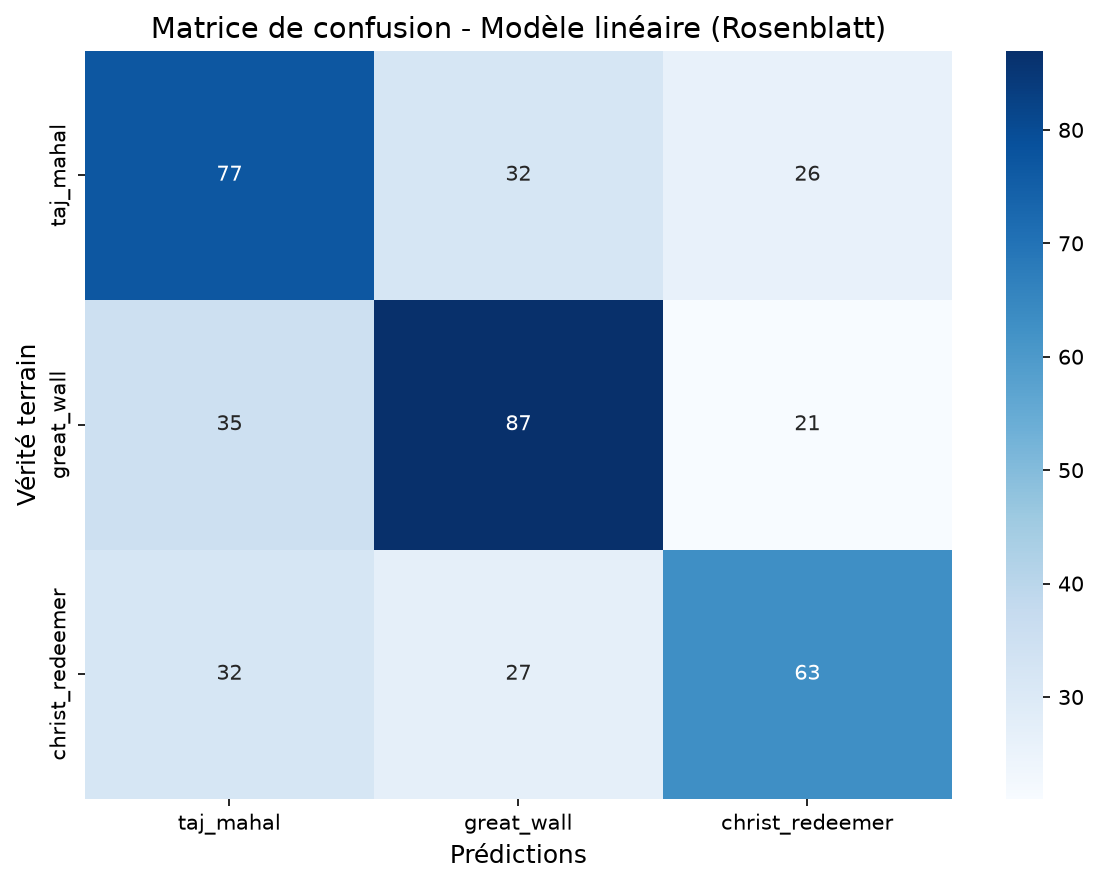
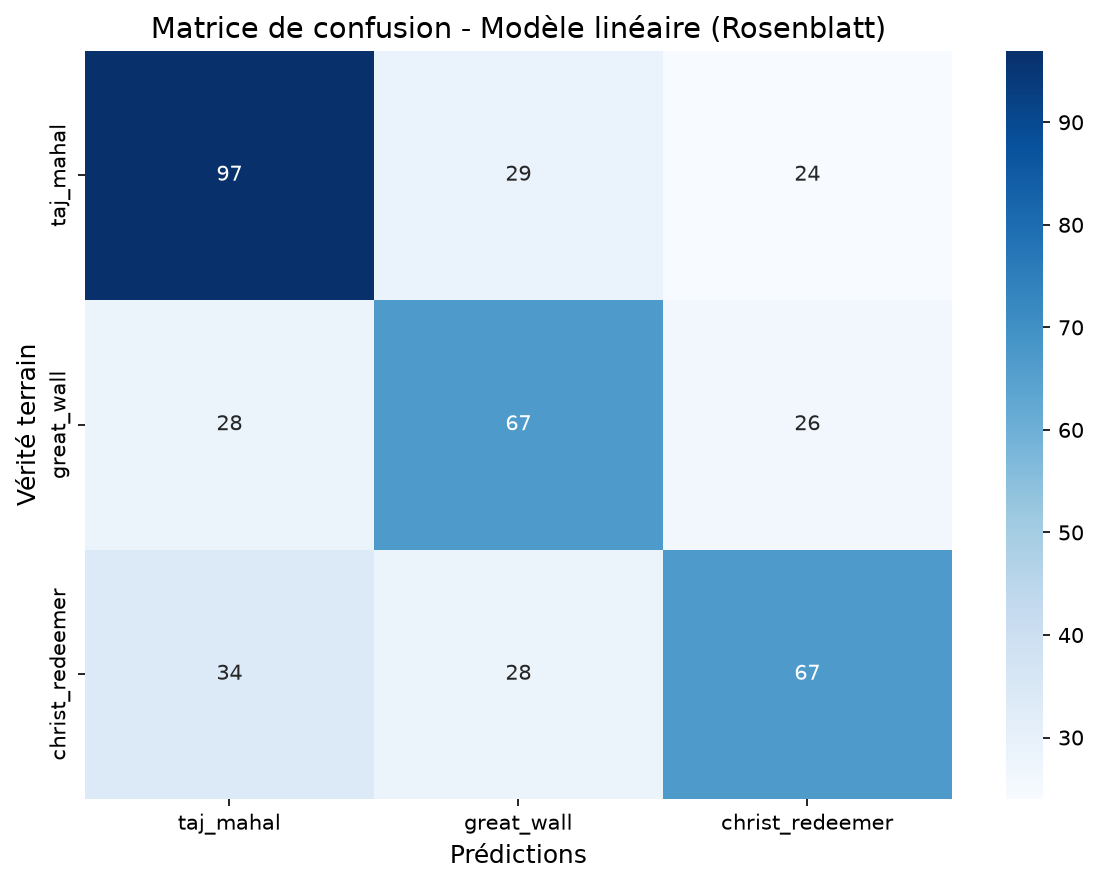
MLP reste des modif mais tout sera là ce soir

diff --git a/scripts/train_mlp.py b/scripts/train_mlp.py
@@ -73,12 +73,6 @@ def generate_all_graphs(y_test, y_pred, class_names):
 
 
 def one_hot(labels, n_classes):
-    """
-    Encode des labels entiers en vecteurs one-hot -1.0/+1.0 (PAS 0/1).
-    Necessaire car le MLP a plusieurs neurones de sortie en -1/+1
-    (contrairement au modele lineaire qui a un perceptron separe par
-    classe, traite individuellement en one-vs-rest).
-    """
     out = []
     for label in labels:
         row = [-1.0] * n_classes
@@ -87,7 +81,7 @@ def one_hot(labels, n_classes):
     return out
 
 
-def train_mlp_model(hidden_layers=(32,), n_iterations=300000, learning_rate=0.01):
+def train_mlp_model(hidden_layers=(32,), n_iterations=30000, learning_rate=0.01):
     """
     hidden_layers : tuple des tailles des couches cachees, ex (32,) pour
     une seule couche cachee de 32 neurones, ou (64, 16) pour deux couches.
@@ -112,8 +106,6 @@ def train_mlp_model(hidden_layers=(32,), n_iterations=300000, learning_rate=0.01
 
     print(f"   Stats features: mean={X.mean():.3f}, std={X.std():.3f}")
 
-    # Split train/test (meme seed que train_models.py pour pouvoir
-    # comparer les deux modeles sur exactement le meme split)
     np.random.seed(42)
     n_samples = len(X)
     indices = np.random.permutation(n_samples)
@@ -126,7 +118,6 @@ def train_mlp_model(hidden_layers=(32,), n_iterations=300000, learning_rate=0.01
     print(f"\nTrain: {len(X_train)} images")
     print(f"Test: {len(X_test)} images")
 
-    # Architecture : [n_features, couches cachees..., n_classes]
     npl = [X.shape[1]] + list(hidden_layers) + [n_classes]
     print(f"\nArchitecture du MLP: {npl}")
 
@@ -137,7 +128,6 @@ def train_mlp_model(hidden_layers=(32,), n_iterations=300000, learning_rate=0.01
     model.train(X_train.tolist(), Y_train_onehot,
                 learning_rate=learning_rate, n_iterations=n_iterations)
 
-    # Évaluation
     y_pred = np.array([model.predict(x) for x in X_test.tolist()])
     accuracy = np.mean(y_pred == y_test)
 
@@ -146,18 +136,13 @@ def train_mlp_model(hidden_layers=(32,), n_iterations=300000, learning_rate=0.01
     print("\nRapport de classification:")
     print(classification_report(y_test, y_pred, target_names=processor.class_names, zero_division=0))
 
-    # Sauvegarde
     os.makedirs('data/models', exist_ok=True)
     model.save('data/models/mlp_model.bin')
 
-    # Générer les graphiques
     generate_all_graphs(y_test, y_pred, processor.class_names)
 
     return model, accuracy
 
 
 if __name__ == "__main__":
-    # Architecture par defaut : 1 couche cachee de 32 neurones.
-    # N'hesite pas a essayer d'autres tailles (ex hidden_layers=(64,) ou
-    # (64, 16)) pour voir l'impact sur la precision dans le rapport.
     train_mlp_model(hidden_layers=(32,), n_iterations=300000, learning_rate=0.01)

diff --git a/lib/src/linear_model.c b/lib/src/linear_model.c
@@ -70,12 +70,6 @@ void linear_train(LinearModel* model, float** X, int* y, int n_samples, float le
     model->is_trained = 1;
 }
 
-/*
- * Prediction multi-classes : on calcule le score W.X de chaque perceptron
- * et on garde la classe dont le perceptron est le plus confiant (score le
- * plus eleve), comme dans le notebook "Multi Linear 3 classes" fourni par
- * Vidal.
- */
 int linear_predict(LinearModel* model, float* x) {
     int best_class = 0;
     float best_score = dot_with_bias(model->weights[0], x, model->n_features);

diff --git a/scripts/download_dataset.py b/scripts/download_dataset.py
@@ -4,11 +4,7 @@ from tqdm import tqdm
 import time
 
 def download_images_from_google(query, num_images, save_dir):
-    """
-    Télécharge des images depuis Google Images
-    Note: Cette fonction est simplifiée; pour un usage réel,
-    utilisez une API comme SerpAPI ou téléchargez manuellement
-    """
+   
     print(f"Téléchargement de {num_images} images pour '{query}'")
     os.makedirs(save_dir, exist_ok=True)
     

diff --git a/python_api/ml_bridge.py b/python_api/ml_bridge.py
@@ -3,7 +3,6 @@ import numpy as np
 import os
 import sys
 
-
 def _load_lib():
     if sys.platform == 'win32':
         lib_name = 'libml.dll'
@@ -71,8 +70,7 @@ class LinearModel:
         print(f"Modèle créé: {n_features} features, {n_classes} classes")
     
     def train(self, X, y, learning_rate=0.02, n_iterations=50000):
-        """     
-        Entraine le modele par la regle de Rosenblatt (one-vs-rest).
+        """ 
         n_iterations = nombre de tirages aleatoires d'exemples PAR CLASSE
         """
         n_samples = len(X)

diff --git a/application/server/app.py b/application/server/app.py
@@ -74,9 +74,6 @@ def predict():
 def train():
     from scripts.train_models import train_linear_model
     
-    # Cette fonction serait appelée pour ré-entraîner le modèle
-    # À implémenter complètement selon vos besoins
-    
     return jsonify({"message": "Fonction d'entraînement à implémenter"})
 
 if __name__ == '__main__':

diff --git a/lib/src/mlp.c b/lib/src/mlp.c
@@ -29,7 +29,6 @@ MLP* mlp_create(int* npl, int n_layers) {
                 if (j == 0) {
                     model->W[l][i][j] = 0.0; // pas de poids vers un "biais" de sortie
                 } else {
-                    // poids aleatoires dans [-1, 1]
                     model->W[l][i][j] = ((double)rand() / RAND_MAX) * 2.0 - 1.0;
                 }
             }
@@ -45,7 +44,7 @@ MLP* mlp_create(int* npl, int n_layers) {
         model->deltas[l] = (double*)malloc(size * sizeof(double));
 
         for (int j = 0; j < size; j++) {
-            model->X[l][j] = (j == 0) ? 1.0 : 0.0; // X[l][0] = 1.0 = biais, toujours
+            model->X[l][j] = (j == 0) ? 1.0 : 0.0;
             model->deltas[l][j] = 0.0;
         }
     }